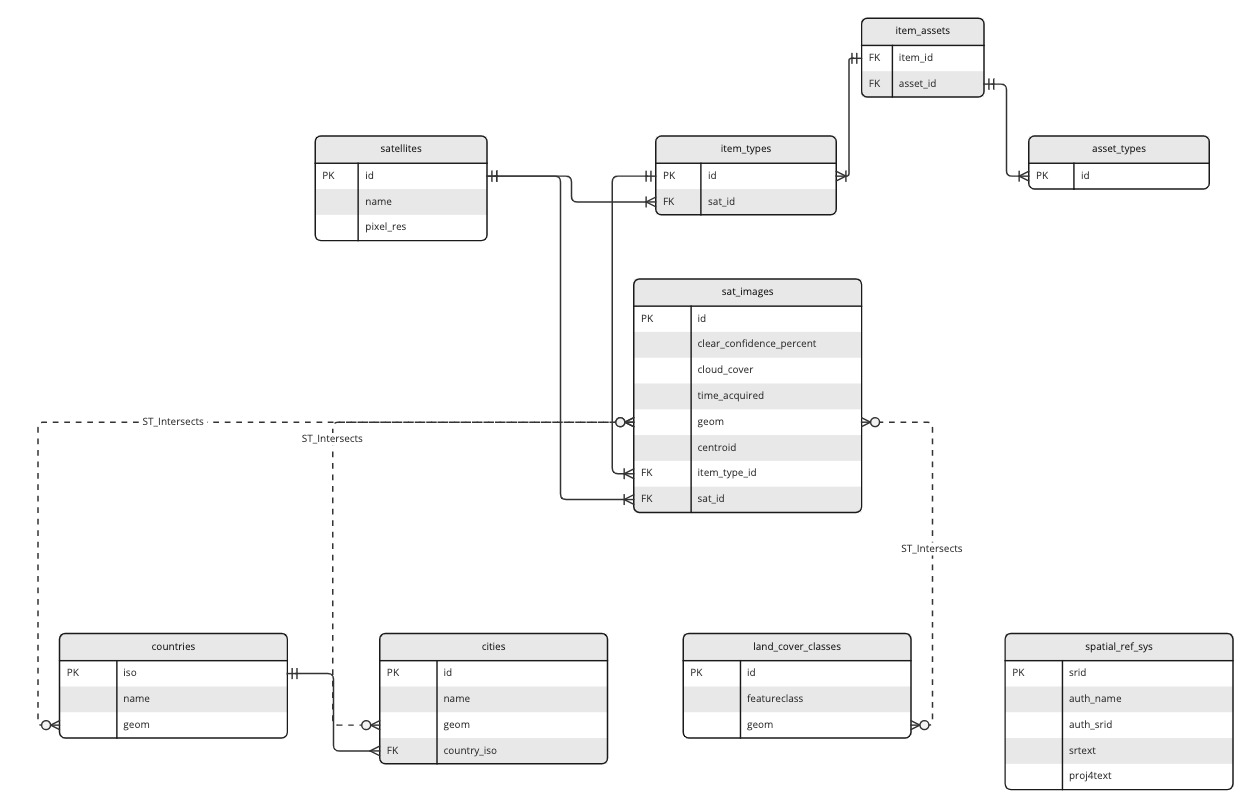
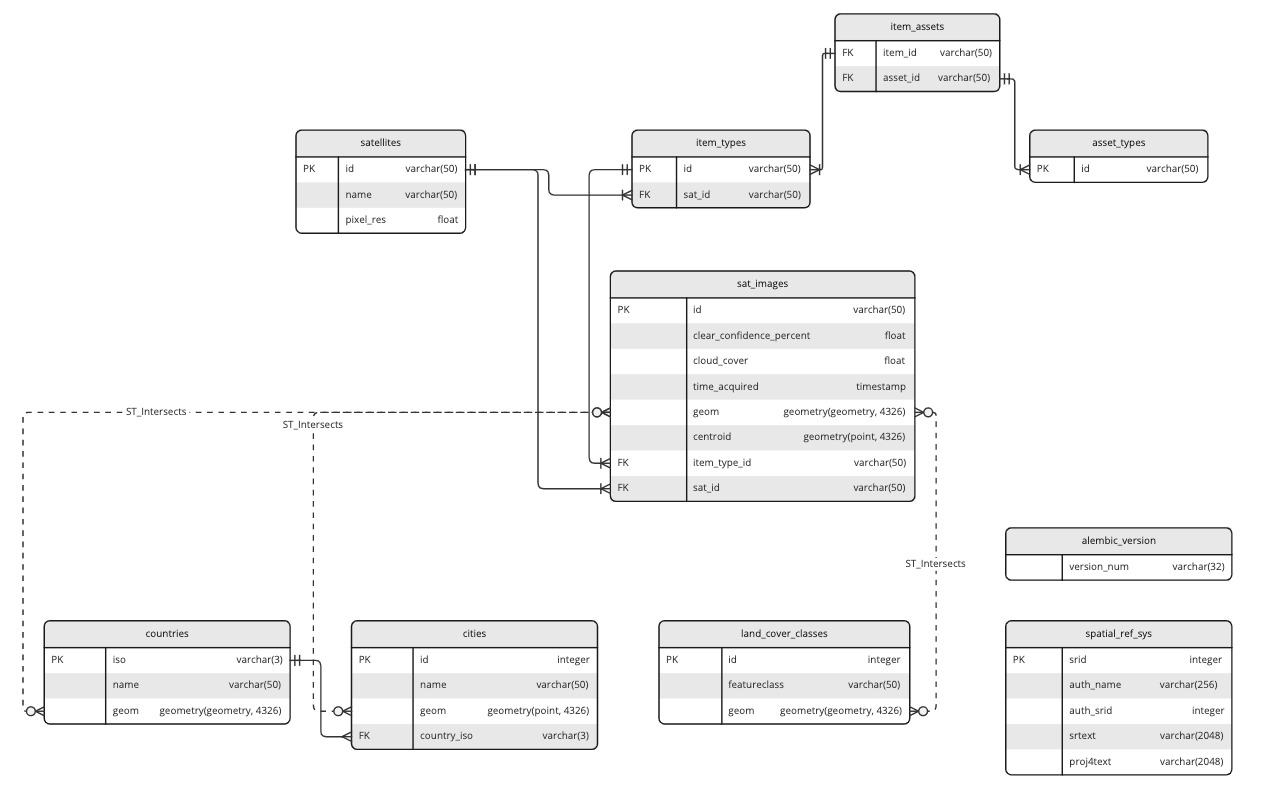
edit er diagram

diff --git a/database/db.py b/database/db.py
@@ -80,7 +80,7 @@ class CentroidFromPolygon(TypeDecorator):
 class Satellite(Base):
     __tablename__ = 'satellites'
     id = Column(String(50), primary_key=True, index=True)
-    name = Column(String(100), nullable=False)
+    name = Column(String(50), nullable=False)
     pixel_res = Column(Float)
 
     sat_images = relationship('SatImage',
